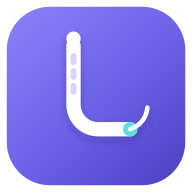
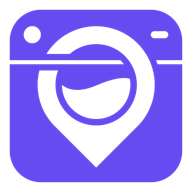
done

diff --git a/app/layout.tsx b/app/layout.tsx
@@ -111,8 +111,12 @@ export const metadata: Metadata = {
     follow: true,
   },
   icons: {
-    icon: "/brand/logos/lndry-final-logo.png",
-    apple: "/brand/logos/lndry-final-logo.png",
+    icon: [
+      { url: "/brand/deployment/favicon-32.png", sizes: "32x32", type: "image/png" },
+      { url: "/brand/deployment/favicon-48.png", sizes: "48x48", type: "image/png" },
+    ],
+    shortcut: "/brand/deployment/favicon-32.png",
+    apple: "/brand/deployment/apple-touch-icon-180.png",
   },
   openGraph: {
     title,
